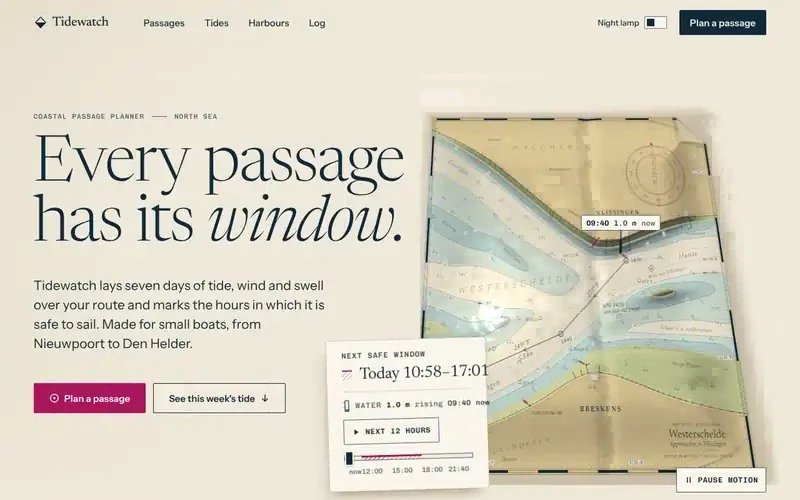
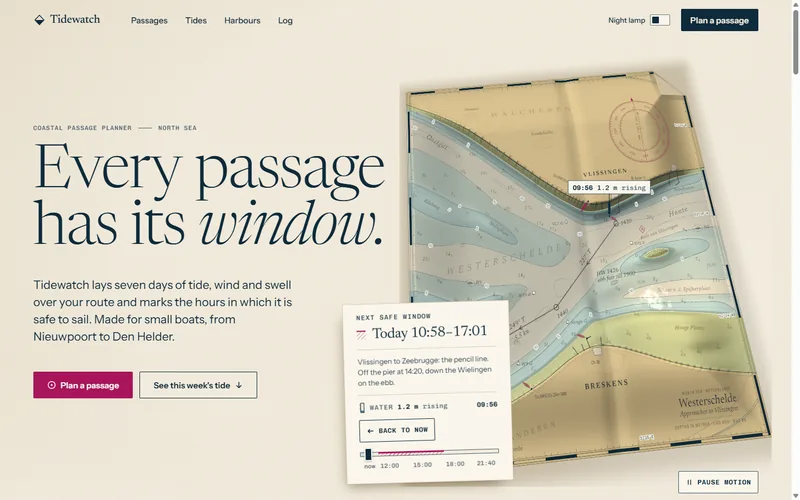
Level 4: a night lamp that lights a readable chart, water you can see, a table seen from the side
Judged on a real GPU (Radeon RX 9070 XT) in three rounds by two strict judges
(art director 6.3 -> 6.5 -> 6.5, owner 6 -> 6 -> 6).

- Night: a wider, softer red pool at less power (no saturated disc), a room that
  keeps the sheet a dim red, shadows and slopes that never go black, and pale rose
  print that reads anywhere; the paper halos of the figures no longer glow as dots.
- Day: a warm lamp with a pool, a room in shade, ink no longer browned by the lamp,
  faint glints and sheen (no white glare over Spijkerplaat).
- Water: a sea-glass colour over the banks and a darker teal in the channels, so a
  bank under water and dry differ in one still frame.
- The print is drawn at 2.6 texels per screen pixel (up to 3072) for sharper lettering.
- The relief stands higher; once it stands, the camera leans in lower over the
  table (still inside its canvas); the pointer turns the view further.
- The sheet lies back less and higher, so it is larger than before and "Pause
  motion" sits under it; the slip keeps one height from the first paint;
  "Back to now" is an outlined control; another hour than now is said in ink.
- Kept from level 3's fixes: the phone keeps level 2's words and buttons, day
  labels with dates only, no empty band above the week, a softer veil and pool.
- New GPU previews: level-4.webp and level-4-still.webp.

diff --git a/examples/levels/4/table.js b/examples/levels/4/table.js
@@ -38,7 +38,7 @@ import { chartPrint } from "./print.js";
 
 const X0 = 140, CW = 860, CH = 900;                // the sheet, in chart units
 const SW = CW / 100, SD = CH / 100;                // and in world units: 8.6 by 9
-const VS = 0.072;                                  // world units per metre shown
+const VS = 0.1;                                    // world units per metre shown: banks that stand up, seen from the side
 const WATER_MAX = 6;                               // metres: setData's 1
 const LAMP_HEIGHT = 1.9;                           // world units above the paper: low enough that the light rakes
 const CURL = 100;                                  // chart units along each edge: the corner turned up
@@ -94,6 +94,7 @@ uniform float uPoolEdge;
 uniform vec3 uRoom;
 uniform float uHill;
 uniform vec3 uShoal;
+uniform vec3 uDeep;           // the water's colour where it stands deep: a darker teal by day, a deep red by night
 uniform vec3 uLine;
 uniform vec3 uGlint;
 uniform vec3 uInkNight;
@@ -148,8 +149,11 @@ void main() {
   vec3 L = normalize(toLamp);
   float r = length(P.xz - uLampPos.xz) / uPoolR;
   float pool = 1.0 - smoothstep(uPoolEdge, 1.0, r);
-  float face = min(max(dot(n, L), 0.0) / max(L.y, 0.2), 1.4);
-  float sh = pool > 0.01 ? shadowAt(P + n * 0.003, L) : 1.0;
+    /* how much a slope faces the lamp, kept soft: paper scatters light, so a slope turned away is in
+       shade, never black (a hard 0 drew the fold as a dark bar through the pool at night) */
+    float face = 0.4 + 0.6 * min(max(dot(n, L), 0.0) / max(L.y, 0.2), 1.4);
+    /* a shadow on paper under a lamp is soft and never black either: the room still lights it */
+    float sh = pool > 0.01 ? mix(0.66, 1.0, shadowAt(P + n * 0.003, L)) : 1.0;
   /* the corner that turned up lies over the chart near its hinge: its shade */
   float inSide = -dot(P.xz - uHinge.xy, uHinge.zw);
   vec2 along = vec2(-uHinge.w, uHinge.z);
@@ -162,7 +166,8 @@ void main() {
   vec3 col = albedo * light * (1.0 - 0.11 * crease * (1.0 - uNight * 0.5));
   /* paper has a little sheen where the lamp is seen in it, caught on every slope that faces it */
   vec3 V = normalize(cameraPosition - P);
-  col += uLampColor * uLampPower * pow(max(dot(n, normalize(L + V)), 0.0), 30.0) * pool * lit * 0.035 * (1.0 - 0.8 * uNight);
+    /* (kept faint: stronger, it smeared the name on the top of Spijkerplaat at low water) */
+    col += uLampColor * uLampPower * pow(max(dot(n, normalize(L + V)), 0.0), 40.0) * pool * lit * 0.015 * (1.0 - 0.8 * uNight);
 
   /* the water of the tide, between the paper and the ink */
   float lap = 0.03 * sin(uTime * 1.15) + 0.014 * sin(uTime * 2.7 + 1.3);
@@ -175,15 +180,25 @@ void main() {
     if (uRipples > 1.5) g += snoiseGrad(P.xz * vec2(6.2, 8.8) + vec2(-uTime * 0.09, uTime * 0.07)) * 0.3;
     vec3 wn = normalize(vec3(-g.y * 0.018, 1.0, -g.z * 0.018));
     float onBank = smoothstep(-0.6, 0.4, bed.g);      // the bed is a bank or a beach that dries, not a channel
-    float a = mix(0.05, mix(0.26, 0.62, smoothstep(0.0, 1.3, depth)), onBank);
+      /* how much of the water's own colour shows: a trace over the channels (their tint is printed), and over
+         a bank that floods a clear sea-glass that deepens with the depth, so a bank under water and the same
+         bank dry look plainly different in one still frame (at 0.26 to 0.62 the tide hardly showed) */
+      float a = mix(0.05, mix(0.42, 0.78, smoothstep(0.0, 1.1, depth)), onBank);
     /* a slow sheen runs down the river with the stream */
     float sheen = 0.5 + 0.5 * sin(dot(P.xz, vec2(0.55, -0.9)) * 1.6 - uTime * 0.45 + g.x * 0.6);
     vec3 waterLight = uRoom + uLampColor * uLampPower * pool * 0.65;
-    vec3 water = mix(col, uShoal * waterLight, a);
-    water += uLampColor * uLampPower * pool * 0.14 * sheen * sheen * sheen * (1.0 - onBank * 0.7) * (1.0 - 0.6 * uNight);
+      /* the water has a depth colour: sea-glass over the banks, a darker teal as the channel deepens, so the
+         river reads as water and not as a tint (a trace of it over the channels, more over a flooded bank) */
+      float deep = smoothstep(1.5, 9.0, depth);
+      a = max(a, 0.3 * deep);
+      vec3 water = mix(col, mix(uShoal, uDeep, deep) * waterLight, a);
+      /* the sheen is a faint moving light, never a white film: at 0.14 it laid a milky haze over the river */
+      water += uLampColor * uLampPower * pool * 0.045 * sheen * sheen * sheen * (1.0 - onBank * 0.7) * (1.0 - 0.6 * uNight);
     vec3 H = normalize(normalize(uLampPos - P) + V);
     float hv = clamp(dot(wn, H), 0.0, 1.0);
-    float glint = (pow(hv, 420.0) * 3.2 + pow(hv, 70.0) * 0.35) * pool * sh * (1.0 - 0.8 * uNight);
+    /* the lamp's glints on the ripples: small and few. Stronger, they burned a white glare into the middle
+       of the chart over Spijkerplaat */
+    float glint = (pow(hv, 600.0) * 1.1 + pow(hv, 90.0) * 0.12) * pool * sh * (1.0 - 0.8 * uNight);
     water += uGlint * uLampPower * glint;
     col = mix(col, water, wet);
   }
@@ -193,13 +208,21 @@ void main() {
   col *= 1.0 - 0.08 * damp;
   col = mix(col, uLine * (uRoom + uLampColor * uLampPower * pool), edge * 0.6);
 
-  /* the ink, on top of everything: by day as printed, by night dark on the red inside the pool and a dim
-     red print in the gloom outside it */
-  vec4 ink = texture2D(uInk, uv, -0.65);
-  vec3 dayInk = ink.rgb * mix(1.0, clamp(light.r, 0.6, 1.0), 0.5);
-  float poolN = 1.0 - smoothstep(uPoolEdge * 0.9, 1.0, r);
-  vec3 nightInk = mix(uInkGlow, uInkNight, poolN) * ink.a;
-  col = col * (1.0 - ink.a) + mix(dayInk, nightInk, uNight);
+    /* the ink, on top of everything. By day as printed: the lamp only shades it a little (more made the
+       magenta rose brown). By night pale rose: bright where the lamp lights the sheet, softer in the gloom. */
+    vec4 ink = texture2D(uInk, uv, -0.65);
+    vec3 dayInk = ink.rgb * mix(1.0, clamp(light.r, 0.75, 1.0), 0.3);
+    /* the print carries pale halos of paper colour round the figures that sit on a line (as charts do). By
+       day they are paper; by night they must not glow: the night print takes only the dark part of the ink
+       (its colour, unpremultiplied, darker than paper), so halos drop out and only lines and letters glow */
+    vec3 inkColour = ink.rgb / max(ink.a, 0.001);
+    float inkDark = 1.0 - smoothstep(0.42, 0.72, dot(inkColour, vec3(0.299, 0.587, 0.114)));
+    float nightA = ink.a * inkDark;
+    float paperLit = smoothstep(0.025, 0.12, col.r);
+    vec3 nightInk = mix(uInkGlow, uInkNight, paperLit);
+    vec3 dayCol = col * (1.0 - ink.a) + dayInk;
+    vec3 nightCol = col * (1.0 - nightA) + nightInk * nightA;
+    col = mix(dayCol, nightCol, uNight);
 
   gl_FragColor = vec4(col, 1.0);
   #include <colorspace_fragment>
@@ -366,7 +389,9 @@ export async function mount(container, options = {}) {
     return set ? set === "dark" : window.matchMedia("(prefers-color-scheme: dark)").matches;
   };
   const onScreen = sheetEl ? sheetEl.getBoundingClientRect().width : container.clientWidth;
-  const inkWidth = Math.max(1024, Math.min(2048, Math.round((onScreen * Math.min(window.devicePixelRatio || 1, 2) * 1.35) / 256) * 256));
+    /* the ink is printed at 2.6 texels per screen pixel of the sheet (at most 3072): seen at a slant, a texture
+     loses detail across the slope, and at 1.35 the chart's lettering came out softer than level 3's */
+  const inkWidth = Math.max(1536, Math.min(3072, Math.round((onScreen * Math.min(window.devicePixelRatio || 1, 2) * 2.6) / 256) * 256));
   const print = chartPrint(hero, { width: inkWidth });
   const firstTheme = nightNow() ? "night" : "day";
   const baseFirst = await print.base(firstTheme);
@@ -443,7 +468,7 @@ export async function mount(container, options = {}) {
     uMaxH: { value: maxH * VS + 0.03 }, uSteps: { value: 12 }, uRipples: { value: 2 },
     uLampPos: { value: new THREE.Vector3(0.6, LAMP_HEIGHT, 0.3) }, uLampColor: { value: new THREE.Color() },
     uLampPower: { value: 0.35 }, uPoolR: { value: 2.6 }, uPoolEdge: { value: 0.3 }, uRoom: { value: new THREE.Color() },
-    uHill: { value: 0.6 }, uShoal: { value: new THREE.Color() }, uLine: { value: new THREE.Color() }, uGlint: { value: new THREE.Color() },
+    uHill: { value: 0.6 }, uShoal: { value: new THREE.Color() }, uDeep: { value: new THREE.Color() }, uLine: { value: new THREE.Color() }, uGlint: { value: new THREE.Color() },
     uInkNight: { value: new THREE.Color() }, uInkGlow: { value: new THREE.Color() },
     uHinge: { value: new THREE.Vector4(hingeMid.x, hingeMid.z, out.x, out.y) }, uFlap: { value: 0 },
   };
@@ -551,15 +576,21 @@ export async function mount(container, options = {}) {
     nightTarget = tokens.dark ? 1 : 0;
     wantBase(tokens.dark ? "night" : "day");
     if (tokens.dark) {
-      uniforms.uRoom.value.copy(tokens.lamp).multiplyScalar(0.035);
+        /* the room at night: the red lamp's light thrown back by the cabin, enough to see the chart outside
+           the pool as a dim red sheet (at 0.035 it was black, and the pool a hard disc in it) */
+        uniforms.uRoom.value.copy(tokens.lamp).multiplyScalar(0.14);
       uniforms.uLampColor.value.copy(tokens.lamp);                 // the red lamp
       uniforms.uShoal.value.setRGB(0.3, 0.07, 0.04);
+        uniforms.uDeep.value.setRGB(0.12, 0.02, 0.01);
       uniforms.uLine.value.copy(tokens.lamp).multiplyScalar(0.9);
       uniforms.uGlint.value.copy(tokens.lamp);
-      uniforms.uInkNight.value.setRGB(0.006, 0.002, 0.0015);       // dark ink on the red
-      uniforms.uInkGlow.value.copy(tokens.glowInk);                // and a dim red print in the gloom
+        /* the print at night is pale rose, as level 3's sheet has it: bright where the lamp lights the
+           paper, a softer rose in the gloom, so every word reads anywhere on the sheet (dark ink on the red
+           only read in the middle of the pool). Linear values: #ffd6c8 and #c98c7a */
+        uniforms.uInkNight.value.setRGB(1.0, 0.67, 0.58);
+        uniforms.uInkGlow.value.setRGB(0.58, 0.26, 0.19);
       uniforms.uHill.value = 0.15;
-      uniforms.uPoolEdge.value = 0.62;
+        uniforms.uPoolEdge.value = 0.2;               // the pool fades from near its middle: a lamp, not a disc
       flapUniforms.uBack.value.copy(tokens.back);
       edgeUniforms.uCut.value.copy(tokens.cut);
       tableUniforms.uGlow.value.copy(tokens.lamp);
@@ -567,9 +598,15 @@ export async function mount(container, options = {}) {
       tableUniforms.uShade.value.setRGB(0, 0, 0);
       tableUniforms.uShadeA.value = 0.6;
     } else {
-      uniforms.uRoom.value.setRGB(0.78, 0.74, 0.66);   // the room beyond the lamp: a warm shade
-      uniforms.uLampColor.value.copy(tokens.lamp).lerp(new THREE.Color(1, 0.84, 0.56), 0.7);   // a warm bulb
-      uniforms.uShoal.value.copy(tokens.shoal);
+        /* the room beyond the lamp: a warm shade, a step darker than the pool, so by day the lamp is a pool of
+           light you can see and its rake shades the relief (at 0.78 with a weak lamp it was a flat grey film) */
+        uniforms.uRoom.value.setRGB(0.76, 0.7, 0.6);
+        /* a warm bulb, yellower than paper, so its pool reads as lamplight and not as a pale haze */
+        uniforms.uLampColor.value.copy(tokens.lamp).lerp(new THREE.Color(1, 0.74, 0.4), 0.85);
+        /* the water by day: a sea-glass deeper than the printed shoal tint (#7fb5bf, linear below), so water lying
+           over a bank reads as water, not as the pale tint it covers */
+        uniforms.uShoal.value.setRGB(0.21, 0.46, 0.52);
+        uniforms.uDeep.value.setRGB(0.05, 0.2, 0.26);   // #3e7a8a
       uniforms.uLine.value.setRGB(1, 0.99, 0.95);
       uniforms.uGlint.value.setRGB(1, 0.96, 0.86);
       uniforms.uInkNight.value.setRGB(0, 0, 0);
@@ -634,6 +671,7 @@ export async function mount(container, options = {}) {
   /* 6. the frame. The opening and the easing run on the clock of the wall, not on the stage's clock
      (which stands still while paused and takes at most a tenth of a second a frame), so a slow device
      sees the same moments, only fewer of them. */
+  let settledAt = -99;   // when the opening ended (the wall clock), for the lean-in after it
   let level = 1.0, levelShown = level, progress = 0, opened = null, built = false, last = 0, flapTurn = 0, banks = 0;
   const view = { x: 0, y: 0 };
   const ease = (dt, seconds) => (dt ? 1 - Math.exp(-dt / seconds) : 1);
@@ -681,15 +719,22 @@ export async function mount(container, options = {}) {
     const kCurl = inOut(phase(t, 0.35, 1.5));
     if (!built && t >= 2.3) {
       built = true;
+        settledAt = live ? now : -99;
       container.dispatchEvent(new CustomEvent("tablebuilt"));
     }
     progress += (stage.progress - progress) * ease(dt, 0.22);
     const leave = progress;
+      /* once the relief stands, the reader leans in: the camera comes down lower over the table and swings a
+         little to the east, so the banks are seen from the side and show their height (straight from the
+         drawn sheet's view the relief read as an emboss). The first frame still lies on the drawn sheet;
+         this follows over 1.8 s, small enough that the sheet stays inside its canvas. A still frame (reduced motion) shows the leaned-in view at once. */
+      const kLean = built ? (settledAt < 0 || !live ? 1 : inOut(phase(now - settledAt, 0, 1.8))) : 0;
     /* the pointer turns the view a little: the relief is seen from another side */
     const p = stage.pointer, follow = built && fine.matches && p.active;
     view.x += ((follow ? p.raw.x : 0) - view.x) * ease(dt, 0.6);
     view.y += ((follow ? p.raw.y : 0) - view.y) * ease(dt, 0.6);
-    applyPose(-view.x * 0.085, view.y * 0.05 - leave * 0.12, leave * 0.18);
+      /* the pointer's turn is larger than before (0.085 and 0.05 rad read as hardly anything) */
+      applyPose(-view.x * 0.1 - kLean * 0.035, view.y * 0.06 + kLean * 0.09 - leave * 0.12, leave * 0.18);
 
     uniforms.uRelief.value = kRelief * (1 - leave * 0.8);
     const turn = Math.PI - (Math.PI - CURL_TURN) * kCurl;   // from folded flat, as the drawn sheet has it, to lifted
@@ -721,8 +766,9 @@ export async function mount(container, options = {}) {
       }
     }
     uniforms.uLampPos.value.set(lamp.x, LAMP_HEIGHT, lamp.z);
-    uniforms.uLampPower.value = night > 0.5 ? 2.3 : 0.24;
-    uniforms.uPoolR.value = night > 0.5 ? 2.45 : 2.15;
+      /* by night a wider, softer pool at less power: at 2.3 the red saturated into one flat colour */
+      uniforms.uLampPower.value = night > 0.5 ? 1.7 : 0.36;
+      uniforms.uPoolR.value = night > 0.5 ? 3.3 : 2.15;
     if (live) uniforms.uTime.value = now % 1000;
     if (built && !idle && stage.running && now > activeUntil && !hand && Math.abs(level - levelShown) < 0.004
       && Math.abs(stage.progress - progress) < 0.002 && Math.hypot(tx - lamp.x, tz - lamp.z) < 0.12) goIdle();

diff --git a/examples/levels/4/level.css b/examples/levels/4/level.css
@@ -316,7 +316,7 @@
   --l3-crease-dark: rgba(92, 66, 22, 0.12);     /* the fold: one side turned from the light */
   --l3-crease-light: rgba(255, 255, 255, 0.5);  /* and one side towards it */
   --l3-ink-2: #263b49;                          /* small print on paper: darker than --color-text-muted, so 12 px reads */
-  --l3-pool-c: rgba(255, 186, 96, 0.36);        /* the lamp over the hour the tide story reads */
+  --l3-pool-c: rgba(255, 186, 96, 0.2);         /* the lamp over the hour the tide story reads: a faint warmth, never a blob */
   --l3-glint: rgba(255, 186, 96, 0.5);          /* the lamp caught by a card under the hand */
   --l3-sheet: #fbf8f0;                          /* the tide sheet laid on the table */
   --l3-dusk: rgba(48, 30, 8, 0.34);             /* the dialog: the lamp turned down */
@@ -327,7 +327,7 @@
     --l3-paper: #84260f; --l3-lit: #ffffff; --l3-rim: #d09c8b; --l3-dim: #5e4740; --l3-glow: rgba(255, 92, 52, 0.42);
     --l3-table: rgba(150, 38, 14, 0.62); --l3-room: rgba(0, 0, 0, 0.32); --l3-cast: rgba(0, 0, 0, 0.62); --l3-contact: rgba(0, 0, 0, 0.7);
     --l3-cut: #2a0d07; --l3-back: #3b150c; --l3-crease-dark: rgba(0, 0, 0, 0.2); --l3-crease-light: rgba(255, 150, 110, 0.06);
-    --l3-ink-2: #e2cdbf; --l3-pool-c: rgba(166, 45, 23, 0.5); --l3-glint: rgba(255, 106, 77, 0.16); --l3-sheet: #1a110e;
+    --l3-ink-2: #e2cdbf; --l3-pool-c: rgba(166, 45, 23, 0.3); --l3-glint: rgba(255, 106, 77, 0.16); --l3-sheet: #1a110e;
     --l3-dusk: rgba(6, 2, 1, 0.66); --l3-dusk-2: rgba(2, 1, 0, 0.86);
   }
 }
@@ -335,7 +335,7 @@
   --l3-paper: #84260f; --l3-lit: #ffffff; --l3-rim: #d09c8b; --l3-dim: #5e4740; --l3-glow: rgba(255, 92, 52, 0.42);
   --l3-table: rgba(150, 38, 14, 0.62); --l3-room: rgba(0, 0, 0, 0.32); --l3-cast: rgba(0, 0, 0, 0.62); --l3-contact: rgba(0, 0, 0, 0.7);
   --l3-cut: #2a0d07; --l3-back: #3b150c; --l3-crease-dark: rgba(0, 0, 0, 0.2); --l3-crease-light: rgba(255, 150, 110, 0.06);
-  --l3-ink-2: #e2cdbf; --l3-pool-c: rgba(166, 45, 23, 0.5); --l3-glint: rgba(255, 106, 77, 0.16); --l3-sheet: #1a110e;
+  --l3-ink-2: #e2cdbf; --l3-pool-c: rgba(166, 45, 23, 0.3); --l3-glint: rgba(255, 106, 77, 0.16); --l3-sheet: #1a110e;
   --l3-dusk: rgba(6, 2, 1, 0.66); --l3-dusk-2: rgba(2, 1, 0, 0.86);
 }
 
@@ -348,7 +348,8 @@
 /* on a phone the words are shorter and keep one button (the header has the other). The page marks a phone
    as html.is-narrow (before the first paint, and again when the width changes), because a width rule here
    is also matched for a moment while Chromium takes a full-page picture, which then lost the second button */
-html.is-narrow :is(.lead__more, .hero__actions .btn--line) { display: none; }
+/* (Level 3 used to drop the last sentence and the second button on a phone. A level keeps everything of the
+   level below, and level 2 shows both, so they stay; the sheet lies below them.) */
 
 /* ---- the lamp switch says what it is, also where its words are hidden ---- */
 .lamp__icon { display: none; flex: none; width: 18px; height: 18px; fill: none; stroke: currentColor; stroke-width: 1.4; stroke-linecap: round; stroke-linejoin: round; }
@@ -375,9 +376,10 @@ html.is-narrow :is(.lead__more, .hero__actions .btn--line) { display: none; }
 /* ---- the week, told as you scroll. level.js marks the story .is-live (motion on, script running, the table
    closed), pins its stage, walks a cursor through the week and writes which day is current; without it the
    steps are a list. The heading, the note and the table button stay with the week while it is pinned. ---- */
-:root { --color-veil: rgba(251, 248, 240, 0.78); }
-@media (prefers-color-scheme: dark) { :root:not([data-theme="light"]) { --color-veil: rgba(13, 7, 6, 0.8); } }
-:root[data-theme="dark"] { --color-veil: rgba(13, 7, 6, 0.8); }
+/* the days still to come lie under a veil that leaves them as a faint pencil line, still readable as data */
+:root { --color-veil: rgba(251, 248, 240, 0.6); }
+@media (prefers-color-scheme: dark) { :root:not([data-theme="light"]) { --color-veil: rgba(13, 7, 6, 0.58); } }
+:root[data-theme="dark"] { --color-veil: rgba(13, 7, 6, 0.58); }
 
 .tt { margin: 0 0 var(--space-7); }
 /* the week is a sheet of chart paper on the table: a neat line, a soft shadow, the lamp over the hour */
@@ -400,7 +402,8 @@ html.is-narrow :is(.lead__more, .hero__actions .btn--line) { display: none; }
 
 .story.is-live { height: calc(100vh + 7 * 40vh); height: calc(100svh + 7 * 40svh); }
 .story.is-live .story__stage {
-  position: sticky; top: 0; display: grid; align-content: center; height: 100vh; height: 100svh; padding-block: var(--space-4);
+    /* the stage starts at its top: centred, it left an empty band between "Today" and the week */
+    position: sticky; top: 0; display: grid; align-content: start; height: 100vh; height: 100svh; padding-block: 0 var(--space-4);
 }
 .story.is-live .section__head { margin-bottom: var(--space-4); padding-top: var(--space-4); }
 .story.is-live .tides__bar { align-items: center; margin-bottom: var(--space-5); }
@@ -427,7 +430,7 @@ html.is-narrow :is(.lead__more, .hero__actions .btn--line) { display: none; }
 .story.is-live .tide__veil { display: block; position: absolute; inset: 0; overflow: hidden; pointer-events: none; }
 .tide__shade, .tide__pool { position: absolute; top: 0; bottom: 0; left: 0; will-change: transform; }
 .tide__shade { width: 200%; background: linear-gradient(to right, transparent 0 50%, var(--color-veil) 53%, var(--color-veil)); }
-.tide__pool { width: 34%; margin-left: -17%; background: radial-gradient(closest-side, var(--l3-pool-c), color-mix(in oklab, var(--l3-pool-c), transparent 62%) 52%, transparent); }
+.tide__pool { width: 18%; margin-left: -9%; background: radial-gradient(closest-side, var(--l3-pool-c), color-mix(in oklab, var(--l3-pool-c), transparent 62%) 52%, transparent); }
 .tide__read.is-flipped { left: auto; right: var(--space-1); }
 .story.is-live .tide__days span[data-current] { font-weight: 700; }
 .story.is-live .tide__cursor { display: block; position: absolute; top: 0; bottom: 0; left: 0; width: 0; border-left: var(--size-border) solid var(--color-text); pointer-events: none; will-change: transform; }
@@ -602,6 +605,8 @@ html.is-narrow :is(.lead__more, .hero__actions .btn--line) { display: none; }
   .story.is-live .tides__bar { margin-bottom: var(--space-3); }
   .story.is-live .story__now b { font-size: var(--text-lg); }
   .story.is-live .tide__legend { gap: var(--space-1) var(--space-4); font-size: 0.75rem; }
+    /* seven days in 330 px: each column keeps its date only; the caption above says which day it is */
+    .story.is-live .tide__days b, .story.is-live .tide__days .moon { display: none; }
   .story.is-live .step__day b { font-size: var(--text-2xl); }
   .story.is-live .step__line { margin-top: var(--space-2); font-size: var(--text-sm); }
   .story.is-live .story__rule { margin-top: var(--space-4); }
@@ -695,7 +700,9 @@ html.is-narrow :is(.lead__more, .hero__actions .btn--line) { display: none; }
    camera from (table.js reads this perspective and this transform), so the scene paints over it exactly
    and the drawn sheet steps aside under it (.hero.is-3d). Without WebGL it stays, with its own lamp. ---- */
 :root {
-  --l4-lay: 39deg;                              /* how far the sheet lies back on the table */
+    /* how far the sheet lies back on the table: 33 degrees, so it stands taller in the window than level 3's
+       sheet (at 39 it lay further away and smaller); the 3D camera is worked out from this, so both agree */
+    --l4-lay: 33deg;
   --l4-turn: -3deg;                             /* and how it lies turned: a sheet is never quite square */
   --l4-eye: 1300px;                             /* how far the eye is from the screen */
   --l4-eye-at: 24% -46%;                        /* and where: left of the sheet, above the table */
@@ -707,13 +714,13 @@ html.is-narrow :is(.lead__more, .hero__actions .btn--line) { display: none; }
 }
 @media (prefers-color-scheme: dark) {
   :root:not([data-theme="light"]) {
-    --l4-paper: #a62d17; --l4-cut: #2a0d07; --l4-back: #3b150c; --l4-ink-glow: #5e2416;
+    --l4-paper: #a62d17; --l4-cut: #3a120a; --l4-back: #7a2c1a; --l4-ink-glow: #5e2416;
     --l4-sheet-shadow: 0 2.5px 0 var(--l4-cut), 0 14px 30px -10px rgba(0, 0, 0, 0.8);
     --color-pool-shade: rgba(12, 4, 2, 0.9);
   }
 }
 :root[data-theme="dark"] {
-  --l4-paper: #a62d17; --l4-cut: #2a0d07; --l4-back: #3b150c; --l4-ink-glow: #5e2416;
+  --l4-paper: #a62d17; --l4-cut: #3a120a; --l4-back: #7a2c1a; --l4-ink-glow: #5e2416;
   --l4-sheet-shadow: 0 2.5px 0 var(--l4-cut), 0 14px 30px -10px rgba(0, 0, 0, 0.8);
   --color-pool-shade: rgba(12, 4, 2, 0.9);
 }
@@ -730,7 +737,9 @@ html.is-narrow :is(.lead__more, .hero__actions .btn--line) { display: none; }
   }
 }
 .sheet {
-  position: absolute; right: var(--l4-right, var(--space-5)); bottom: var(--l4-bottom, var(--space-4));
+    /* close to the content's right edge, and laid high enough that "Pause motion" sits under the sheet,
+       not on its corner */
+    position: absolute; right: var(--l4-right, var(--space-2)); bottom: var(--l4-bottom, 3.5rem);
   height: var(--l4-height, min(112cqh, (100cqw - var(--space-5)) * 900 / 860)); aspect-ratio: 860 / 900;
   overflow: hidden; background: var(--l4-paper); box-shadow: var(--l4-sheet-shadow);
   transform-origin: 50% 100%; transform: rotateX(var(--l4-lay)) rotateZ(var(--l4-turn));
@@ -772,7 +781,8 @@ html.is-narrow :is(.lead__more, .hero__actions .btn--line) { display: none; }
 }
 .tideclock__time { font-weight: 700; }
 .tideclock__way { color: var(--color-text-muted); }
-.tideclock.is-lapse .tideclock__time { color: var(--color-accent); }
+/* another hour than now is said in ink, bold: magenta stays for the main action and the safe window */
+.tideclock.is-lapse .tideclock__time { color: var(--color-text); }
 .hero.is-3d .tideclock { opacity: 1; visibility: visible; }
 
 /* ---- the slip: the water of the hour, and the reader's own hour ---- */
@@ -786,7 +796,7 @@ html.is-narrow :is(.lead__more, .hero__actions .btn--line) { display: none; }
 .tidebar__label { letter-spacing: var(--tracking-caps); text-transform: uppercase; }
 .tidebar__h { color: var(--color-text); font-weight: 700; }
 .tidebar__time { margin-left: auto; color: var(--color-text); }
-.tidebar.is-lapse .tidebar__time { color: var(--color-accent); font-weight: 700; }
+.tidebar.is-lapse .tidebar__time { color: var(--color-text); font-weight: 700; }
 /* a tide staff: its marks, and the water standing in it */
 .gauge { flex: none; width: 12px; height: 20px; overflow: visible; color: var(--color-text); }
 .gauge__staff { fill: var(--color-bg); stroke: currentColor; stroke-width: 1; }
@@ -807,7 +817,9 @@ html.is-narrow :is(.lead__more, .hero__actions .btn--line) { display: none; }
 .tool__glyph { width: 14px; height: 14px; flex: none; fill: none; stroke: currentColor; stroke-width: 1.7; stroke-linecap: round; stroke-linejoin: round; }
 .glyph-run, .glyph-play { fill: currentColor; stroke: none; }
 .glyph-back, .glyph-play { display: none; }
-.tool--tide[aria-pressed="true"] { background: var(--color-text); color: var(--color-bg); border-color: var(--color-text); }
+/* while the hours play, the control says "Back to now" as an outlined control in ink, not a filled button:
+   the hero keeps one main action, "Plan a passage" */
+.tool--tide[aria-pressed="true"] { background: transparent; color: var(--color-text); border-color: var(--color-text); }
 .tool--tide[aria-pressed="true"] .glyph-run { display: none; }
 .tool--tide[aria-pressed="true"] .glyph-back { display: inline; }
 .tool--tide:disabled .glyph-run { display: none; }
@@ -918,3 +930,18 @@ html:not(.js) :is(.tool, .tideclock) { display: none; }
   font: 600 0.6875rem/1 var(--font-mono); letter-spacing: var(--tracking-caps); text-transform: uppercase; color: var(--color-text);
 }
 .dstack__day.is-none .dstack__name::after { content: " · no window"; font-weight: 500; color: var(--color-text-muted); }
+
+/* the space between "Today" and the week: the section's own padding is enough (with the pinned stage's it
+   left an empty band of 170 px), as in level 3 */
+.tides:has(.story.is-live) { padding-top: var(--space-6); }
+
+/* the slip keeps one height: once the 3D table is coming its scale already takes its room (unseen until the
+   table is built and offers it), so the slip does not grow on the first screen while it is being read */
+/* (!important: base.css hides every [hidden] with !important; here the room is kept on purpose, unseen) */
+:is(.hero.is-3d, .hero.is-3d-coming) .scrub[hidden] { display: block !important; visibility: hidden; }
+/* hero.js loads once the page is idle, so on a wide screen with motion on the room is kept from the first
+   paint in CSS alone; a scene that falls back (no WebGL) lets it go again, so the drawn chart's slip is whole */
+@media (prefers-reduced-motion: no-preference) and (min-width: 60.0625rem) {
+    .hero__slip .scrub[hidden] { display: block !important; visibility: hidden; }
+    .hero:has(#hero-scene[data-scene="fallback"]) .hero__slip .scrub[hidden] { display: none !important; }
+}

diff --git a/examples/levels/4/hero.js b/examples/levels/4/hero.js
@@ -162,9 +162,13 @@ if (scene) {
   /* live: the drawn sheet steps aside under the 3D one, the scale is offered, and on the first view the
      next twelve hours play once by themselves */
   let firstRun = false;
+    /* the 3D table is coming (WebGL 2 is there and motion is welcome): the slip takes its final height now, from
+       the first paint, so it does not grow while it is read; if the scene falls back, it lets that room go */
+    hero.classList.toggle("is-3d-coming", typeof WebGL2RenderingContext !== "undefined" && !reduce.matches);
   new MutationObserver(() => {
     const live = box.getAttribute("data-scene") === "live";
     hero.classList.toggle("is-3d", live);
+      if (box.getAttribute("data-scene") === "fallback") hero.classList.remove("is-3d-coming");
   }).observe(box, { attributes: true, attributeFilter: ["data-scene"] });
   box.addEventListener("tablebuilt", () => {
     if (scrubber) scrubber.hidden = false;
